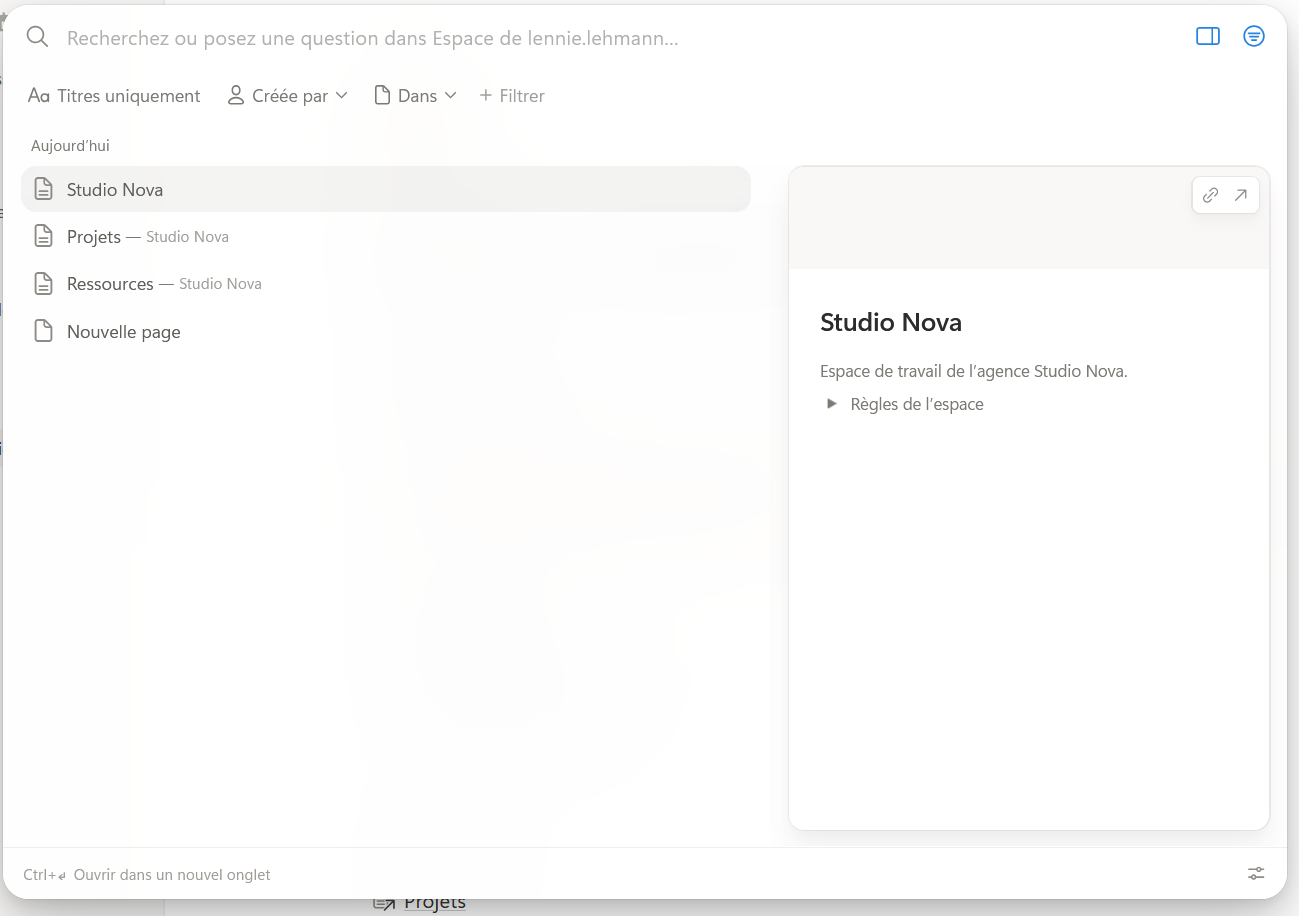
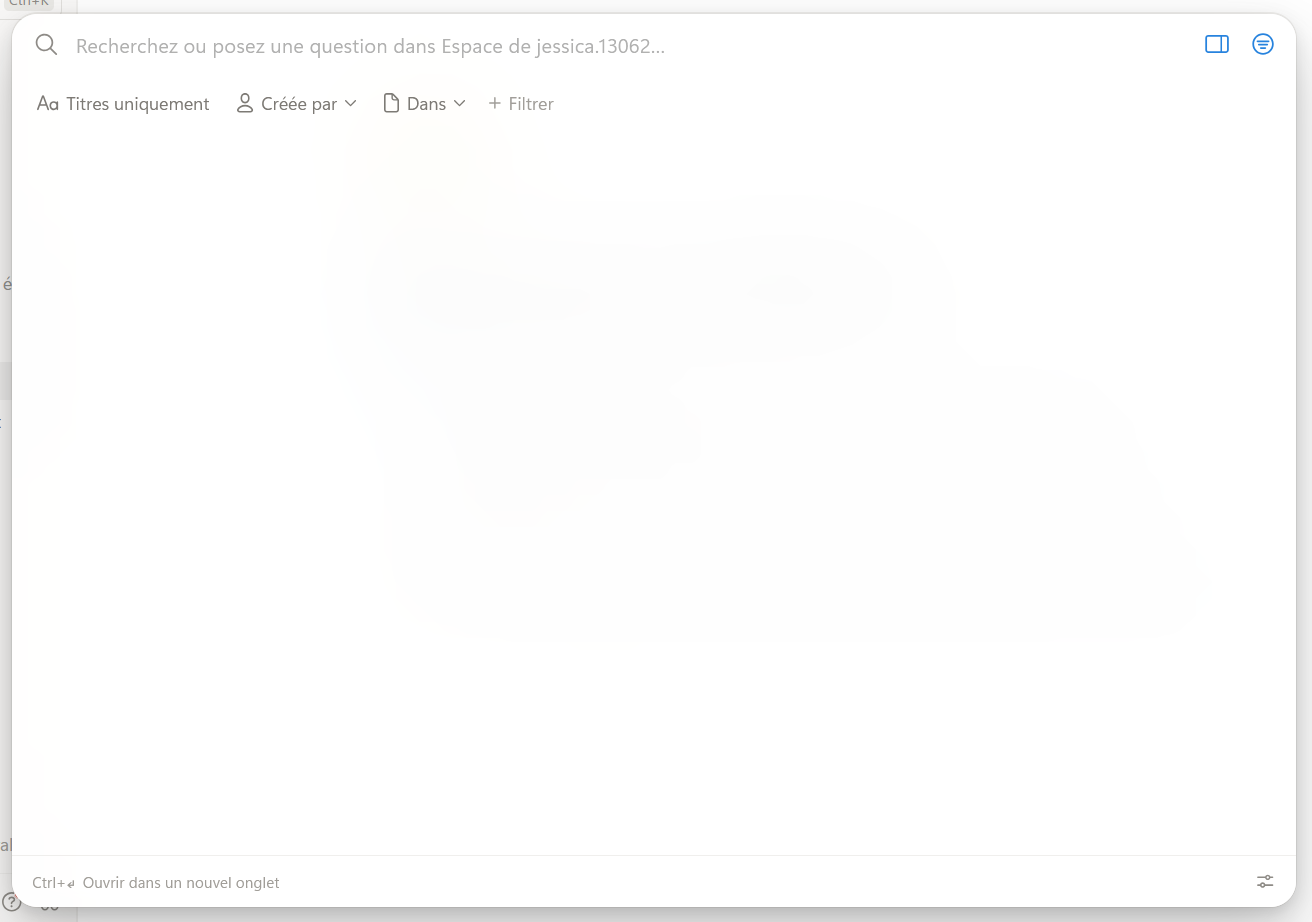
Captures du module 3, captures des modules 1-2 remplacées, libellés Notion actuels
- 9 captures du module 3 intégrées (paire côte à côte pour « Déplacer vers » en 3.1)
- Dimensions mises à jour pour les captures remplacées des modules 1 et 2
- 1.2 : barre latérale actuelle (« Nouvelle page », « + Ajouter » dans « Pages privées »)
- 3.2 : « liens entrants » au lieu de « rétroliens » ; 3.4 : filtres « Titres uniquement », « Créée par », « Dans », « + Filtrer »

Claude-Session: https://claude.ai/code/session_01FC8iCvTPbnXeTJtYSQPRyh

diff --git a/lecons/m03-l02-les-liens-entre-pages.html b/lecons/m03-l02-les-liens-entre-pages.html
@@ -62,7 +62,7 @@
           <li><strong>Le bloc « Lien vers une page »</strong> (<em>Link to page</em>), sur une ligne à part. Tape « /lien » et choisis la page. Il ressemble à un bloc page, avec une petite flèche en plus sur l'icône.</li>
           <li><strong>Le lien copié</strong>. L'icône de lien en haut à droite d'une page, ou « Copier le lien » (<em>Copy link</em>) dans le menu ···, donne une adresse que tu peux coller dans Notion, dans un e-mail ou un message.</li>
         </ul>
-        <p>Bonus : quand une page est citée ailleurs, Notion l'affiche sous son titre, dans les <strong>rétroliens</strong> (<em>Backlinks</em>). Tu vois ainsi d'où on vient vers cette page.</p>
+        <p>Bonus : quand une page est citée ailleurs, Notion l'indique juste au-dessus de son titre, par exemple « 1 lien entrant » (<em>Backlinks</em>). Un clic dessus montre d'où l'on vient vers cette page.</p>
 
         <figure class="illustration">
           <img src="../images/illustrations/m03-lien-ou-sous-page.svg" alt="Comparaison en deux panneaux. À gauche, « Sous-page (/page) » : depuis « Notes & réunions », une flèche pleine crée une nouvelle page « Réunion d'équipe » rangée à cet endroit. À droite, « Lien (@ ou /lien) » : depuis « Réunion d'équipe », une flèche pointillée pointe vers la page existante « Accueil — Studio Nova », qui reste où elle est." width="720" height="320">
@@ -82,21 +82,13 @@
           <li>Ouvre « Réunion d'équipe — 3 novembre ». Sous l'ordre du jour, écris : « Les détails sont dans ».</li>
           <li>Tape « @Proj » : une liste de pages apparaît. Choisis « Projets ». Le lien s'insère dans ta phrase.
             <figure class="screenshot">
-              <div class="screenshot__placeholder" role="img" aria-label="Emplacement pour une capture d'écran : la liste qui apparaît après « @Proj », avec la page « Projets » en surbrillance">
-                <svg viewBox="0 0 24 24" fill="none" stroke="currentColor" stroke-width="1.5" stroke-linecap="round" stroke-linejoin="round" aria-hidden="true"><rect x="3" y="4" width="18" height="16" rx="2"/><circle cx="9" cy="10" r="2"/><path d="M21 16l-5-5-8 8"/></svg>
-                <strong>Capture d'écran Notion</strong>
-                <span>Mention @ en cours · images/captures/m03-mention-projets.png</span>
-              </div>
+              <img src="../images/captures/m03-mention-projets.png" alt="« @Proj » tapé dans la page « Réunion d'équipe - 3 novembre » : la liste propose la page « Projets » sous « Lien vers la page »" width="1283" height="843" loading="lazy">
             </figure></li>
           <li>Va à la ligne, tape « /lien » et choisis « Lien vers une page » (<em>Link to page</em>). Cherche « Ressources » et valide.</li>
           <li>Ouvre maintenant « Accueil — Studio Nova ». Dans « Liens utiles », ajoute « @Notes &amp; réunions ».</li>
-          <li>Retourne dans « Notes &amp; réunions » : sous le titre, Notion indique un rétrolien depuis l'accueil.
+          <li>Retourne dans « Notes &amp; réunions » : au-dessus du titre, Notion indique « 1 lien entrant » : c'est le lien depuis l'accueil.
             <figure class="screenshot">
-              <div class="screenshot__placeholder" role="img" aria-label="Emplacement pour une capture d'écran : le haut de la page « Notes & réunions » avec la mention des rétroliens sous le titre">
-                <svg viewBox="0 0 24 24" fill="none" stroke="currentColor" stroke-width="1.5" stroke-linecap="round" stroke-linejoin="round" aria-hidden="true"><rect x="3" y="4" width="18" height="16" rx="2"/><circle cx="9" cy="10" r="2"/><path d="M21 16l-5-5-8 8"/></svg>
-                <strong>Capture d'écran Notion</strong>
-                <span>Rétroliens sous le titre · images/captures/m03-retroliens.png</span>
-              </div>
+              <img src="../images/captures/m03-retroliens.png" alt="Le haut de la page « Notes & réunions », avec la mention « 1 lien entrant » juste au-dessus du titre" width="1286" height="537" loading="lazy">
             </figure></li>
           <li>Enfin, ouvre le menu ··· de « Projets » et clique sur « Copier le lien ». Colle-le dans un e-mail ou un message de test pour voir l'adresse obtenue.</li>
         </ol>
@@ -165,12 +157,12 @@
             <legend><span class="quiz__count">Mini-quiz · question 3 sur 3</span><span class="quiz__question">Où vois-tu quelles pages font un lien vers la page ouverte ?</span></legend>
             <div class="quiz__options">
               <label class="quiz__option"><input type="radio" name="q3" value="a"><span class="quiz__option-text">Dans la Corbeille.</span><span class="quiz__tag"></span></label>
-              <label class="quiz__option"><input type="radio" name="q3" value="b" data-correct><span class="quiz__option-text">Dans les rétroliens, sous le titre de la page.</span><span class="quiz__tag"></span></label>
+              <label class="quiz__option"><input type="radio" name="q3" value="b" data-correct><span class="quiz__option-text">Dans les liens entrants, au-dessus du titre de la page.</span><span class="quiz__tag"></span></label>
               <label class="quiz__option"><input type="radio" name="q3" value="c"><span class="quiz__option-text">Dans les Paramètres.</span><span class="quiz__tag"></span></label>
             </div>
           </fieldset>
           <p class="quiz__error" data-quiz-error hidden>Choisis une réponse avant de valider.</p>
-          <p class="quiz__feedback" data-quiz-feedback role="status" hidden><strong data-quiz-verdict></strong>Les rétroliens (Backlinks) listent, sous le titre, les pages qui mentionnent celle-ci.</p>
+          <p class="quiz__feedback" data-quiz-feedback role="status" hidden><strong data-quiz-verdict></strong>Les liens entrants (<em>Backlinks</em>), affichés au-dessus du titre, listent les pages qui mentionnent celle-ci.</p>
           <div class="quiz__actions">
             <button type="button" class="btn btn-primary" data-quiz-validate>Valider</button>
             <button type="button" class="btn btn-outline" data-quiz-reset>Recommencer</button>

diff --git a/lecons/m03-l04-la-recherche.html b/lecons/m03-l04-la-recherche.html
@@ -60,19 +60,15 @@
         <p>Avant même que tu tapes, la fenêtre affiche tes pages <strong>récentes</strong> : souvent, celle que tu cherches y est déjà.</p>
         <p>Quand il y a trop de résultats, utilise les <strong>filtres</strong> sous le champ de recherche :</p>
         <ul>
-          <li><strong>Titre uniquement</strong>, pour ignorer le contenu des pages ;</li>
-          <li><strong>Créé par</strong>, pour ne garder que les pages d'une personne ;</li>
+          <li><strong>Titres uniquement</strong>, pour ignorer le contenu des pages ;</li>
+          <li><strong>Créée par</strong>, pour ne garder que les pages d'une personne ;</li>
           <li><strong>Dans</strong>, pour chercher seulement à l'intérieur d'une page, par exemple « Notes &amp; réunions » ;</li>
-          <li><strong>Date</strong>, pour cibler une période.</li>
+          <li><strong>+ Filtrer</strong>, pour ajouter d'autres critères, comme une date.</li>
         </ul>
 
         <figure class="screenshot illustration">
-          <div class="screenshot__placeholder" role="img" aria-label="Emplacement pour une capture d'écran annotée : la fenêtre de recherche ouverte avec le mot « Orion », les résultats listés et les filtres encadrés">
-            <svg viewBox="0 0 24 24" fill="none" stroke="currentColor" stroke-width="1.5" stroke-linecap="round" stroke-linejoin="round" aria-hidden="true"><rect x="3" y="4" width="18" height="16" rx="2"/><circle cx="9" cy="10" r="2"/><path d="M21 16l-5-5-8 8"/></svg>
-            <strong>Capture d'écran annotée</strong>
-            <span>Fenêtre de recherche avec filtres · images/captures/m03-recherche-filtres.png</span>
-          </div>
-          <figcaption>Le champ de recherche (1), les filtres (2) et les résultats, avec le chemin de chaque page (3).</figcaption>
+          <img src="../images/captures/m03-recherche-filtres.png" alt="La fenêtre de recherche : le champ de recherche (1), les filtres « Titres uniquement », « Créée par » et « Dans » (2), puis les résultats avec l'aperçu de la page (3)" width="1297" height="904" loading="lazy">
+          <figcaption>Le champ de recherche (1), les filtres (2), puis les résultats avec le chemin de chaque page et l'aperçu de la page sélectionnée (3).</figcaption>
         </figure>
         <p class="definition">Ctrl + K ouvre la recherche : elle trouve un mot dans les titres et dans le contenu de toutes les pages auxquelles tu as accès.</p>
         <div class="callout callout--tip">
@@ -87,14 +83,10 @@
         <ol class="tutorial">
           <li>Appuie sur Ctrl + K (Cmd + K sur Mac). La fenêtre de recherche s'ouvre sur tes pages récentes.</li>
           <li>Tape « Orion ». La réunion du 3 novembre apparaît : le mot est dans son contenu.</li>
-          <li>Ouvre le filtre « Titre uniquement ». Le résultat disparaît, puisque « Orion » n'est pas dans le titre. Retire le filtre.</li>
+          <li>Ouvre le filtre « Titres uniquement ». Le résultat disparaît, puisque « Orion » n'est pas dans le titre. Retire le filtre.</li>
           <li>Cherche maintenant « réunion » et ajoute le filtre « Dans » : choisis « Notes &amp; réunions ».
             <figure class="screenshot">
-              <div class="screenshot__placeholder" role="img" aria-label="Emplacement pour une capture d'écran : la recherche « réunion » avec le filtre « Dans : Notes & réunions » actif">
-                <svg viewBox="0 0 24 24" fill="none" stroke="currentColor" stroke-width="1.5" stroke-linecap="round" stroke-linejoin="round" aria-hidden="true"><rect x="3" y="4" width="18" height="16" rx="2"/><circle cx="9" cy="10" r="2"/><path d="M21 16l-5-5-8 8"/></svg>
-                <strong>Capture d'écran Notion</strong>
-                <span>Recherche filtrée · images/captures/m03-recherche-dans.png</span>
-              </div>
+              <img src="../images/captures/m03-recherche-dans.png" alt="La recherche « réunion » avec le filtre « Dans : Notes & réunions » actif : le résultat « Réunion d'équipe - 3 novembre » et son aperçu" width="1293" height="898" loading="lazy">
             </figure></li>
           <li>Appuie sur Enter ou clique sur un résultat pour l'ouvrir. Esc ferme la recherche sans rien ouvrir.</li>
         </ol>
@@ -109,7 +101,7 @@
           <h3>Retrouver sans chercher dans la barre latérale</h3>
           <ol>
             <li>Avec Ctrl + K, retrouve la page qui contient « point sur le site ».</li>
-            <li>Cherche « Projets » avec le filtre « Titre uniquement ».</li>
+            <li>Cherche « Projets » avec le filtre « Titres uniquement ».</li>
             <li>Ferme la recherche avec Esc.</li>
           </ol>
           <p class="exercise__result"><strong>Résultat attendu :</strong> le premier essai ouvre « Réunion d'équipe — 3 novembre », trouvée grâce à son contenu. Le second ne garde que la page dont le titre contient « Projets ».</p>

diff --git a/lecons/m01-l02-se-reperer-dans-l-interface.html b/lecons/m01-l02-se-reperer-dans-l-interface.html
@@ -73,8 +73,8 @@
           <li><strong>Trois petites icônes tout en haut.</strong> À gauche, le bouton pour masquer la barre latérale. À droite, la <strong>Boîte de réception</strong>, où arrivent tes notifications (quand un collègue te mentionne ou commente une page), et le bouton <strong>Nouvel élément</strong>, pour créer une nouvelle page.</li>
           <li><strong>« Chercher ou demander »</strong>, le champ de recherche. Tu tapes quelques mots pour retrouver une page. Il sert aussi à poser une question à l'assistant IA de Notion, que cette formation n'utilise pas.</li>
           <li><strong>Les onglets.</strong> « Accueil », ta page de départ, montre tes pages récentes. À côté, deux icônes ouvrent les discussions avec l'IA (la bulle) et les réunions (le calendrier).</li>
-          <li><strong>Les fonctions avancées</strong> : « Nouvelle discussion », « Bibliothèque », « Connexions » et « Agents externes ». Elles servent à discuter avec l'IA, à parcourir tout le contenu de l'espace et à relier Notion à d'autres outils. Tu peux les ignorer pour débuter.</li>
-          <li><strong>Les sections de pages</strong> : « Pages partagées », pour les pages partagées avec quelques personnes, et « Pages privées », pour celles que toi seul vois. Selon l'abonnement de ton entreprise, une section « Espaces d'équipe » peut aussi apparaître, et une section « Favoris » s'ajoute dès que tu épingles une page.</li>
+          <li><strong>« Nouvelle page »</strong>, pour créer une page, puis <strong>« Nouvelle discussion »</strong> et <strong>« Bibliothèque »</strong>, qui servent à discuter avec l'IA et à parcourir tout le contenu de l'espace. Selon ta version de Notion, « Connexions » et « Agents externes » peuvent aussi apparaître. Tu peux les ignorer pour débuter.</li>
+          <li><strong>Les sections de pages</strong> : « Pages partagées », pour les pages partagées avec quelques personnes, et « Pages privées », pour celles que toi seul vois, avec un « + Ajouter » pour y créer une page. Selon l'abonnement de ton entreprise, une section « Espaces d'équipe » peut aussi apparaître, et une section « Favoris » s'ajoute dès que tu épingles une page.</li>
           <li><strong>Tout en bas</strong> : « Personnaliser la barre latérale », puis le <strong>nom de ton espace de travail</strong>. Un espace de travail, c'est l'ensemble de toutes les pages d'une personne ou d'une équipe. Un clic sur son nom ouvre un menu qui donne accès aux paramètres.</li>
         </ul>
         <p>La barre du haut contient le <strong>fil d'Ariane</strong> : le chemin de la page ouverte, par exemple « Studio Nova / Projets / Site Orion ». Il te dit où tu te trouves, comme l'adresse d'une maison. Juste à côté, une mention comme « Privée » t'indique qui peut voir la page. À droite, tu trouves « Partager », l'icône pour copier le lien de la page, l'étoile des favoris et le menu « ··· ».</p>
@@ -94,12 +94,12 @@
         <ol class="tutorial">
           <li>Ouvre Notion et regarde la barre latérale, à gauche. Repère le nom de ton espace, tout en bas.
             <figure class="screenshot">
-              <img src="../images/captures/m01-barre-laterale.png" alt="La barre latérale de Notion, avec le nom de l'espace de travail entouré en bas" width="341" height="974" loading="lazy">
+              <img src="../images/captures/m01-barre-laterale.png" alt="La barre latérale de Notion, avec le nom de l'espace de travail entouré en bas" width="341" height="810" loading="lazy">
             </figure>
           </li>
           <li>En haut de la barre latérale, clique sur « Chercher ou demander ». Une fenêtre de recherche s'ouvre au centre de l'écran.
             <figure class="screenshot">
-              <img src="../images/captures/m01-recherche.png" alt="La fenêtre de recherche ouverte au centre de l'écran" width="1299" height="916" loading="lazy">
+              <img src="../images/captures/m01-recherche.png" alt="La fenêtre de recherche ouverte au centre de l'écran" width="1312" height="922" loading="lazy">
             </figure>
           </li>
           <li>Appuie sur la touche Esc pour la fermer.</li>

diff --git a/lecons/m03-l01-l-arborescence.html b/lecons/m03-l01-l-arborescence.html
@@ -84,19 +84,14 @@
           <li>Dans « Notes &amp; réunions », crée une sous-page « Réunion d'équipe — 3 novembre ». Écris-y une ligne : « Ordre du jour : point sur le site Orion ».</li>
           <li>Revenue dans la barre latérale, déplie « Studio Nova » puis « Notes &amp; réunions » : ta réunion apparaît au troisième niveau.
             <figure class="screenshot">
-              <div class="screenshot__placeholder" role="img" aria-label="Emplacement pour une capture d'écran : la barre latérale avec « Studio Nova » déplié, puis « Notes & réunions » déplié, montrant « Réunion d'équipe — 3 novembre » au troisième niveau">
-                <svg viewBox="0 0 24 24" fill="none" stroke="currentColor" stroke-width="1.5" stroke-linecap="round" stroke-linejoin="round" aria-hidden="true"><rect x="3" y="4" width="18" height="16" rx="2"/><circle cx="9" cy="10" r="2"/><path d="M21 16l-5-5-8 8"/></svg>
-                <strong>Capture d'écran Notion</strong>
-                <span>Barre latérale sur trois niveaux · images/captures/m03-arborescence-barre-laterale.png</span>
-              </div>
+              <img src="../images/captures/m03-arborescence-barre-laterale.png" alt="La barre latérale : la page « Studio Nova » (1), ses quatre sous-pages (2) et « Réunion d'équipe - 3 novembre » au troisième niveau (3)" width="591" height="783" loading="lazy">
             </figure></li>
           <li>Pour t'entraîner à déplacer : crée une page « Brouillon » directement dans « Pages privées ». Ouvre-la, clique sur ··· en haut à droite, puis sur « Déplacer vers » (<em>Move to</em>).</li>
           <li>Tape « Notes » et choisis « Notes &amp; réunions ». La page « Brouillon » s'y range.
             <figure class="screenshot">
-              <div class="screenshot__placeholder" role="img" aria-label="Emplacement pour une capture d'écran : la fenêtre « Déplacer vers » avec le champ de recherche et la page « Notes & réunions » proposée">
-                <svg viewBox="0 0 24 24" fill="none" stroke="currentColor" stroke-width="1.5" stroke-linecap="round" stroke-linejoin="round" aria-hidden="true"><rect x="3" y="4" width="18" height="16" rx="2"/><circle cx="9" cy="10" r="2"/><path d="M21 16l-5-5-8 8"/></svg>
-                <strong>Capture d'écran Notion</strong>
-                <span>Fenêtre « Déplacer vers » · images/captures/m03-deplacer-vers.png</span>
+              <div class="screenshot__pair">
+                <img src="../images/captures/m03-deplacer-vers-1.png" alt="La page « Brouillon » ouverte, avec la fenêtre « Déplacer vers » : « Notes » tapé dans la recherche et la page « Notes & réunions » proposée" width="1633" height="823" loading="lazy" style="flex-grow: 1.984">
+                <img src="../images/captures/m03-deplacer-vers-2.png" alt="Après le déplacement : le chemin « Studio Nova / Notes & réunions / Brouillon » en haut de la page, et « Brouillon » rangé sous « Notes & réunions » dans la barre latérale" width="923" height="819" loading="lazy" style="flex-grow: 1.127">
               </div>
             </figure></li>
         </ol>

diff --git a/lecons/m03-l03-barre-laterale-et-favoris.html b/lecons/m03-l03-barre-laterale-et-favoris.html
@@ -80,21 +80,13 @@
         <ol class="tutorial">
           <li>Ouvre « Accueil — Studio Nova ». En haut à droite, clique sur l'étoile ☆. La section « Favoris » apparaît en haut de la barre latérale.
             <figure class="screenshot">
-              <div class="screenshot__placeholder" role="img" aria-label="Emplacement pour une capture d'écran : le haut à droite d'une page, avec l'étoile des favoris entourée">
-                <svg viewBox="0 0 24 24" fill="none" stroke="currentColor" stroke-width="1.5" stroke-linecap="round" stroke-linejoin="round" aria-hidden="true"><rect x="3" y="4" width="18" height="16" rx="2"/><circle cx="9" cy="10" r="2"/><path d="M21 16l-5-5-8 8"/></svg>
-                <strong>Capture d'écran Notion</strong>
-                <span>Étoile des favoris · images/captures/m03-etoile-favori.png</span>
-              </div>
+              <img src="../images/captures/m03-etoile-favori.png" alt="La page « Accueil - Studio Nova » : l'étoile en haut à droite est activée, et la section « Favoris » apparaît en haut de la barre latérale" width="1633" height="890" loading="lazy">
             </figure></li>
           <li>Fais de même avec « Projets ».</li>
           <li>Dans la section « Favoris », glisse « Projets » au-dessus de l'accueil, puis remets-le en dessous : l'ordre des favoris t'appartient.</li>
           <li>Dans « Pages privées », clique sur la flèche devant « Notes &amp; réunions » pour la replier.
             <figure class="screenshot">
-              <div class="screenshot__placeholder" role="img" aria-label="Emplacement pour une capture d'écran : la barre latérale avec la section Favoris en haut et « Notes & réunions » repliée">
-                <svg viewBox="0 0 24 24" fill="none" stroke="currentColor" stroke-width="1.5" stroke-linecap="round" stroke-linejoin="round" aria-hidden="true"><rect x="3" y="4" width="18" height="16" rx="2"/><circle cx="9" cy="10" r="2"/><path d="M21 16l-5-5-8 8"/></svg>
-                <strong>Capture d'écran Notion</strong>
-                <span>Barre latérale organisée · images/captures/m03-barre-laterale-favoris.png</span>
-              </div>
+              <img src="../images/captures/m03-barre-laterale-favoris.png" alt="La barre latérale : « Accueil - Studio Nova » et « Projets » dans les Favoris, et « Notes & réunions » replié dans « Pages privées »" width="364" height="482" loading="lazy">
             </figure></li>
           <li>Clique sur le bouton tout en haut à gauche de la barre latérale : elle disparaît. Clique sur le bouton qui reste visible en haut à gauche de l'écran pour la faire revenir.</li>
         </ol>

diff --git a/lecons/m01-l03-entrer-dans-studio-nova.html b/lecons/m01-l03-entrer-dans-studio-nova.html
@@ -110,15 +110,15 @@
           <li>Clique sur ce « + ». Une nouvelle page vide s'ouvre, avec « Nouvelle page » écrit en gris à la place du titre.
             <figure class="screenshot">
               <div class="screenshot__pair">
-                <img src="../images/captures/m01-nouvelle-page-1.png" alt="Barre latérale : le « + » à droite de « Pages privées », signalé par une flèche" width="336" height="696" loading="lazy" style="flex-grow: 0.483">
-                <img src="../images/captures/m01-nouvelle-page-2.png" alt="La nouvelle page vide qui s'ouvre, avec « Nouvelle page » écrit en gris à la place du titre" width="963" height="1105" loading="lazy" style="flex-grow: 0.871">
+                <img src="../images/captures/m01-nouvelle-page-1.png" alt="Barre latérale : le « + » à droite de « Pages privées », signalé par une flèche" width="403" height="636" loading="lazy" style="flex-grow: 0.634">
+                <img src="../images/captures/m01-nouvelle-page-2.png" alt="La nouvelle page vide qui s'ouvre, avec « Nouvelle page » écrit en gris à la place du titre" width="1479" height="999" loading="lazy" style="flex-grow: 1.480">
               </div>
             </figure>
           </li>
           <li>Clique sur ce texte gris et tape « Studio Nova ».</li>
           <li>Regarde la barre latérale : la page « Studio Nova » apparaît dans la section « Pages privées ».
             <figure class="screenshot">
-              <img src="../images/captures/m01-page-studio-nova.png" alt="La page « Studio Nova » visible dans la section « Pages privées » de la barre latérale" width="313" height="645" loading="lazy">
+              <img src="../images/captures/m01-page-studio-nova.png" alt="La page « Studio Nova » visible dans la section « Pages privées » de la barre latérale" width="337" height="671" loading="lazy">
             </figure>
           </li>
         </ol>

diff --git a/lecons/m02-l02-creer-et-nommer-une-page.html b/lecons/m02-l02-creer-et-nommer-une-page.html
@@ -89,7 +89,7 @@
           <li>Survole la zone juste au-dessus du titre et clique sur « Ajouter une icône ».</li>
           <li>Notion place une icône au hasard. Clique dessus pour ouvrir la liste des icônes, tape « home » dans la recherche et choisis la maison.
             <figure class="screenshot">
-              <img src="../images/captures/m02-choix-icone.png" alt="La fenêtre de choix d'icône, avec « home » tapé dans la recherche" width="981" height="547" loading="lazy">
+              <img src="../images/captures/m02-choix-icone.png" alt="La fenêtre de choix d'icône, avec « home » tapé dans la recherche" width="1282" height="612" loading="lazy">
             </figure></li>
           <li>Dans la barre latérale, clique sur la petite flèche devant « Studio Nova » : ta page « Accueil — Studio Nova » apparaît en dessous, avec sa maison.</li>
         </ol>
